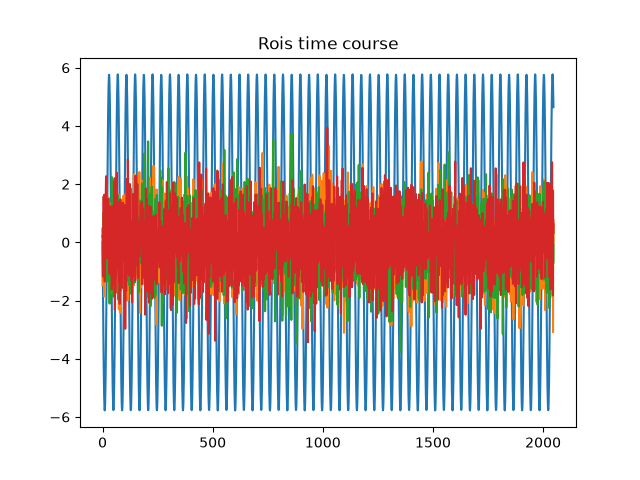
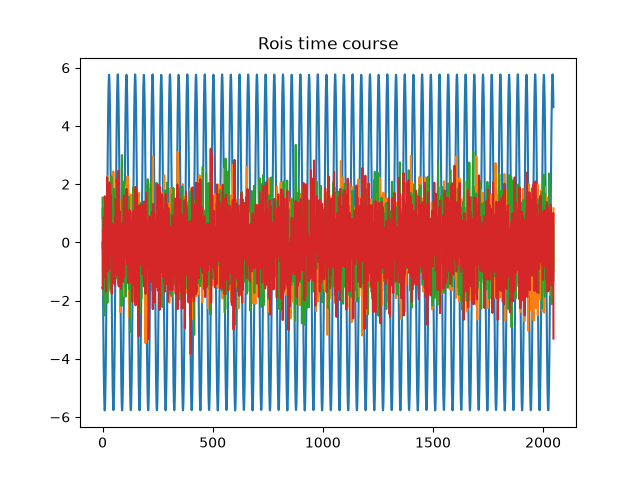
Deploy preview for PR 31 🛫

Changed region(s): [[0.1562, 0.2812, 0.875, 0.5], [0.1562, 0.5312, 0.875, 0.7188]]

diff --git a/pr-preview/pr-31/sg_execution_times.html b/pr-preview/pr-31/sg_execution_times.html
@@ -45,7 +45,7 @@
   <link rel="preload" as="script" href="_static/scripts/bootstrap.js?digest=a95f357e85573c9b56d5" />
 <link rel="preload" as="script" href="_static/scripts/pydata-sphinx-theme.js?digest=a95f357e85573c9b56d5" />
 
-    <script src="_static/documentation_options.js?v=117c6e3d"></script>
+    <script src="_static/documentation_options.js?v=8f4c759a"></script>
     <script src="_static/doctools.js?v=fd6eb6e6"></script>
     <script src="_static/sphinx_highlight.js?v=6ffebe34"></script>
     <script src="_static/clipboard.min.js?v=a7894cd8"></script>
@@ -413,7 +413,7 @@
                   
   <section id="computation-times">
 <span id="sphx-glr-sg-execution-times"></span><h1>Computation times<a class="headerlink" href="#computation-times" title="Link to this heading">🔗</a></h1>
-<p><strong>00:06.584</strong> total execution time for 1 file <strong>from all galleries</strong>:</p>
+<p><strong>00:07.010</strong> total execution time for 1 file <strong>from all galleries</strong>:</p>
 <div class="docutils container">
 <style scoped>
 <link href="https://cdnjs.cloudflare.com/ajax/libs/twitter-bootstrap/5.3.0/css/bootstrap.min.css" rel="stylesheet" />
@@ -435,8 +435,8 @@ $(document).ready( function () {
 </thead>
 <tbody>
 <tr class="row-even"><td><p><a class="reference internal" href="generated/tutorials/00_plot_svd.html#sphx-glr-generated-tutorials-00-plot-svd-py"><span class="std std-ref">Conpute SVD</span></a> (<code class="docutils literal notranslate"><span class="pre">../tutorials/00_plot_svd.py</span></code>)</p></td>
-<td><p>00:06.584</p></td>
-<td><p>714.3</p></td>
+<td><p>00:07.010</p></td>
+<td><p>711.7</p></td>
 </tr>
 </tbody>
 </table>

diff --git a/pr-preview/pr-31/api/index.html b/pr-preview/pr-31/api/index.html
@@ -45,7 +45,7 @@
   <link rel="preload" as="script" href="../_static/scripts/bootstrap.js?digest=a95f357e85573c9b56d5" />
 <link rel="preload" as="script" href="../_static/scripts/pydata-sphinx-theme.js?digest=a95f357e85573c9b56d5" />
 
-    <script src="../_static/documentation_options.js?v=117c6e3d"></script>
+    <script src="../_static/documentation_options.js?v=8f4c759a"></script>
     <script src="../_static/doctools.js?v=fd6eb6e6"></script>
     <script src="../_static/sphinx_highlight.js?v=6ffebe34"></script>
     <script src="../_static/clipboard.min.js?v=a7894cd8"></script>

diff --git a/pr-preview/pr-31/api/io.html b/pr-preview/pr-31/api/io.html
@@ -45,7 +45,7 @@
   <link rel="preload" as="script" href="../_static/scripts/bootstrap.js?digest=a95f357e85573c9b56d5" />
 <link rel="preload" as="script" href="../_static/scripts/pydata-sphinx-theme.js?digest=a95f357e85573c9b56d5" />
 
-    <script src="../_static/documentation_options.js?v=117c6e3d"></script>
+    <script src="../_static/documentation_options.js?v=8f4c759a"></script>
     <script src="../_static/doctools.js?v=fd6eb6e6"></script>
     <script src="../_static/sphinx_highlight.js?v=6ffebe34"></script>
     <script src="../_static/clipboard.min.js?v=a7894cd8"></script>

diff --git a/pr-preview/pr-31/api/regions_of_interests.html b/pr-preview/pr-31/api/regions_of_interests.html
@@ -45,7 +45,7 @@
   <link rel="preload" as="script" href="../_static/scripts/bootstrap.js?digest=a95f357e85573c9b56d5" />
 <link rel="preload" as="script" href="../_static/scripts/pydata-sphinx-theme.js?digest=a95f357e85573c9b56d5" />
 
-    <script src="../_static/documentation_options.js?v=117c6e3d"></script>
+    <script src="../_static/documentation_options.js?v=8f4c759a"></script>
     <script src="../_static/doctools.js?v=fd6eb6e6"></script>
     <script src="../_static/sphinx_highlight.js?v=6ffebe34"></script>
     <script src="../_static/clipboard.min.js?v=a7894cd8"></script>

diff --git a/pr-preview/pr-31/api/source_estimate.html b/pr-preview/pr-31/api/source_estimate.html
@@ -45,7 +45,7 @@
   <link rel="preload" as="script" href="../_static/scripts/bootstrap.js?digest=a95f357e85573c9b56d5" />
 <link rel="preload" as="script" href="../_static/scripts/pydata-sphinx-theme.js?digest=a95f357e85573c9b56d5" />
 
-    <script src="../_static/documentation_options.js?v=117c6e3d"></script>
+    <script src="../_static/documentation_options.js?v=8f4c759a"></script>
     <script src="../_static/doctools.js?v=fd6eb6e6"></script>
     <script src="../_static/sphinx_highlight.js?v=6ffebe34"></script>
     <script src="../_static/clipboard.min.js?v=a7894cd8"></script>

diff --git a/pr-preview/pr-31/api/source_space.html b/pr-preview/pr-31/api/source_space.html
@@ -45,7 +45,7 @@
   <link rel="preload" as="script" href="../_static/scripts/bootstrap.js?digest=a95f357e85573c9b56d5" />
 <link rel="preload" as="script" href="../_static/scripts/pydata-sphinx-theme.js?digest=a95f357e85573c9b56d5" />
 
-    <script src="../_static/documentation_options.js?v=117c6e3d"></script>
+    <script src="../_static/documentation_options.js?v=8f4c759a"></script>
     <script src="../_static/doctools.js?v=fd6eb6e6"></script>
     <script src="../_static/sphinx_highlight.js?v=6ffebe34"></script>
     <script src="../_static/clipboard.min.js?v=a7894cd8"></script>

diff --git a/pr-preview/pr-31/genindex.html b/pr-preview/pr-31/genindex.html
@@ -44,7 +44,7 @@
   <link rel="preload" as="script" href="_static/scripts/bootstrap.js?digest=a95f357e85573c9b56d5" />
 <link rel="preload" as="script" href="_static/scripts/pydata-sphinx-theme.js?digest=a95f357e85573c9b56d5" />
 
-    <script src="_static/documentation_options.js?v=117c6e3d"></script>
+    <script src="_static/documentation_options.js?v=8f4c759a"></script>
     <script src="_static/doctools.js?v=fd6eb6e6"></script>
     <script src="_static/sphinx_highlight.js?v=6ffebe34"></script>
     <script src="_static/clipboard.min.js?v=a7894cd8"></script>

diff --git a/pr-preview/pr-31/index.html b/pr-preview/pr-31/index.html
@@ -45,7 +45,7 @@
   <link rel="preload" as="script" href="_static/scripts/bootstrap.js?digest=a95f357e85573c9b56d5" />
 <link rel="preload" as="script" href="_static/scripts/pydata-sphinx-theme.js?digest=a95f357e85573c9b56d5" />
 
-    <script src="_static/documentation_options.js?v=117c6e3d"></script>
+    <script src="_static/documentation_options.js?v=8f4c759a"></script>
     <script src="_static/doctools.js?v=fd6eb6e6"></script>
     <script src="_static/sphinx_highlight.js?v=6ffebe34"></script>
     <script src="_static/clipboard.min.js?v=a7894cd8"></script>

diff --git a/pr-preview/pr-31/install.html b/pr-preview/pr-31/install.html
@@ -45,7 +45,7 @@
   <link rel="preload" as="script" href="_static/scripts/bootstrap.js?digest=a95f357e85573c9b56d5" />
 <link rel="preload" as="script" href="_static/scripts/pydata-sphinx-theme.js?digest=a95f357e85573c9b56d5" />
 
-    <script src="_static/documentation_options.js?v=117c6e3d"></script>
+    <script src="_static/documentation_options.js?v=8f4c759a"></script>
     <script src="_static/doctools.js?v=fd6eb6e6"></script>
     <script src="_static/sphinx_highlight.js?v=6ffebe34"></script>
     <script src="_static/clipboard.min.js?v=a7894cd8"></script>

diff --git a/pr-preview/pr-31/py-modindex.html b/pr-preview/pr-31/py-modindex.html
@@ -44,7 +44,7 @@
   <link rel="preload" as="script" href="_static/scripts/bootstrap.js?digest=a95f357e85573c9b56d5" />
 <link rel="preload" as="script" href="_static/scripts/pydata-sphinx-theme.js?digest=a95f357e85573c9b56d5" />
 
-    <script src="_static/documentation_options.js?v=117c6e3d"></script>
+    <script src="_static/documentation_options.js?v=8f4c759a"></script>
     <script src="_static/doctools.js?v=fd6eb6e6"></script>
     <script src="_static/sphinx_highlight.js?v=6ffebe34"></script>
     <script src="_static/clipboard.min.js?v=a7894cd8"></script>

diff --git a/pr-preview/pr-31/search.html b/pr-preview/pr-31/search.html
@@ -43,7 +43,7 @@
   <link rel="preload" as="script" href="_static/scripts/bootstrap.js?digest=a95f357e85573c9b56d5" />
 <link rel="preload" as="script" href="_static/scripts/pydata-sphinx-theme.js?digest=a95f357e85573c9b56d5" />
 
-    <script src="_static/documentation_options.js?v=117c6e3d"></script>
+    <script src="_static/documentation_options.js?v=8f4c759a"></script>
     <script src="_static/doctools.js?v=fd6eb6e6"></script>
     <script src="_static/sphinx_highlight.js?v=6ffebe34"></script>
     <script src="_static/clipboard.min.js?v=a7894cd8"></script>

diff --git a/pr-preview/pr-31/_static/documentation_options.js b/pr-preview/pr-31/_static/documentation_options.js
@@ -1,5 +1,5 @@
 const DOCUMENTATION_OPTIONS = {
-    VERSION: '0.1.0.dev137+gf410b57d2',
+    VERSION: '0.1.0.dev139+g098efcdc9',
     LANGUAGE: 'en',
     COLLAPSE_INDEX: false,
     BUILDER: 'html',
